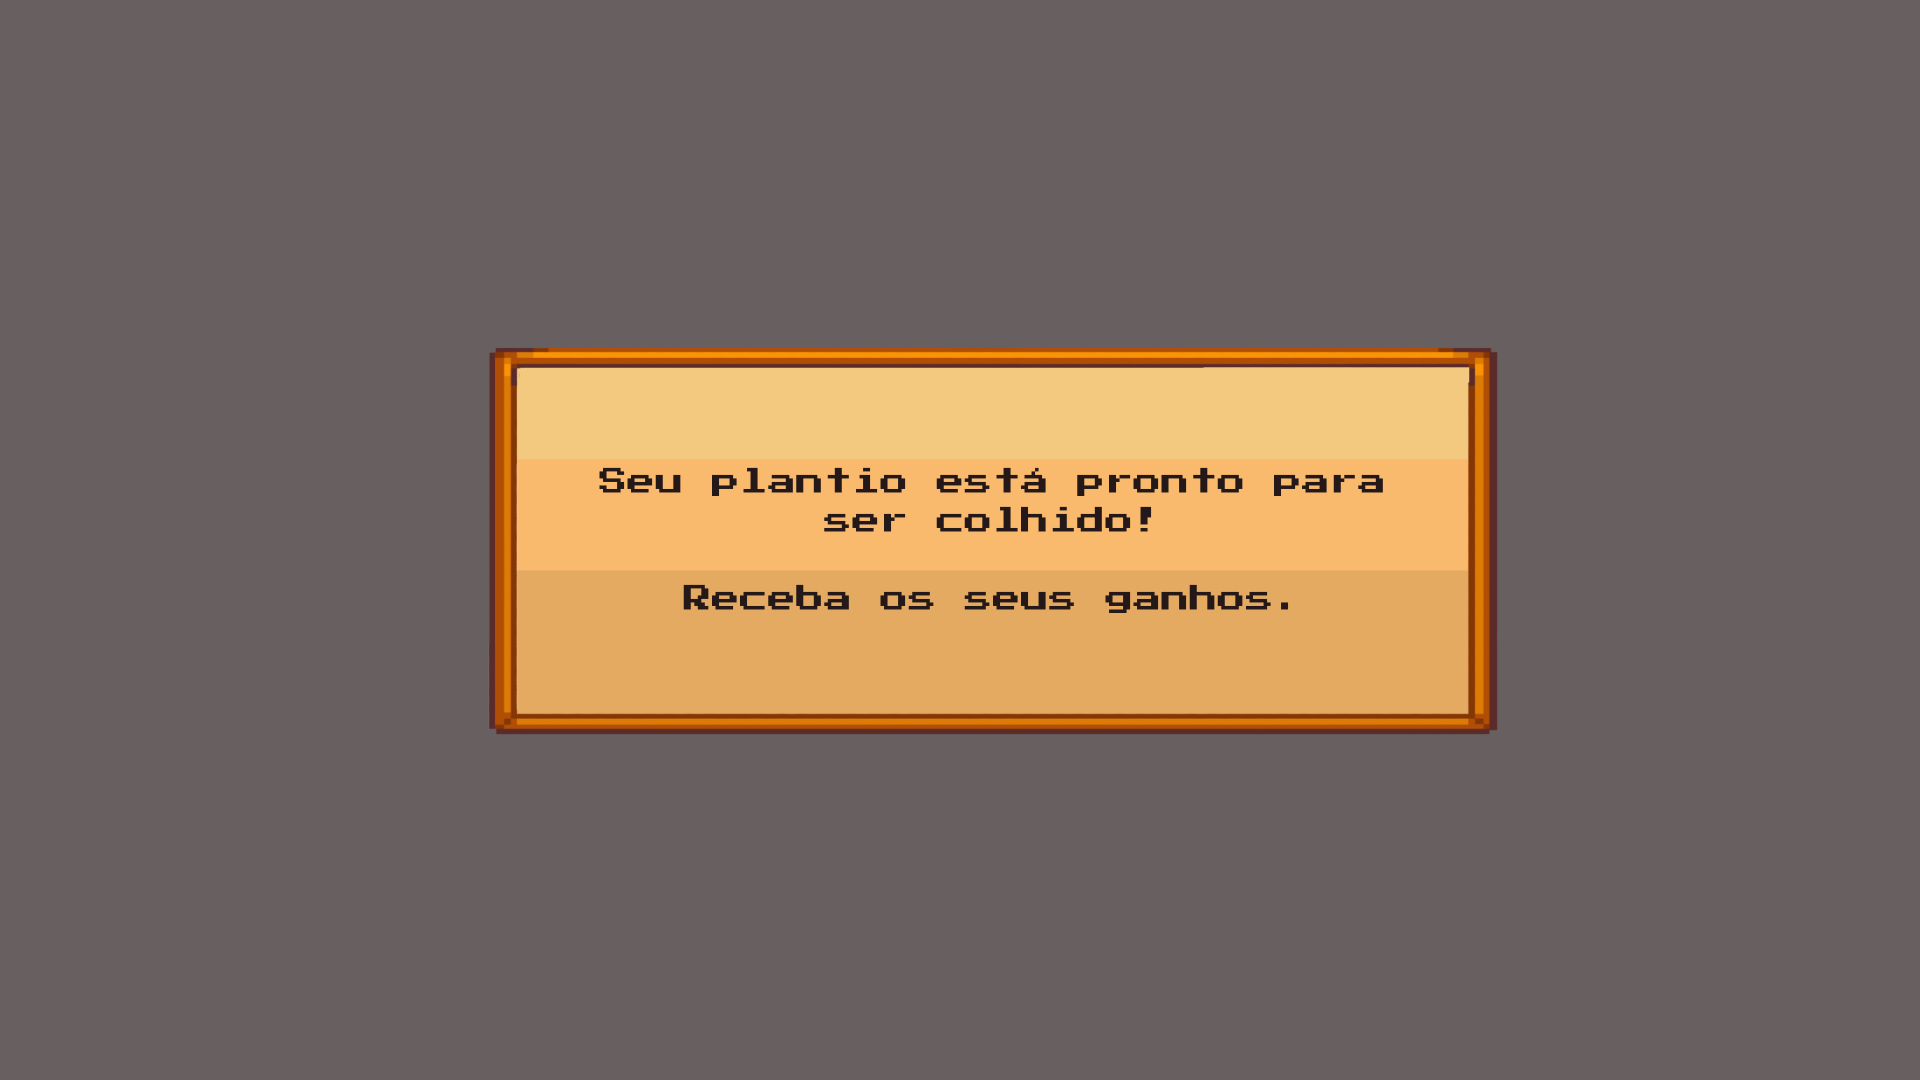
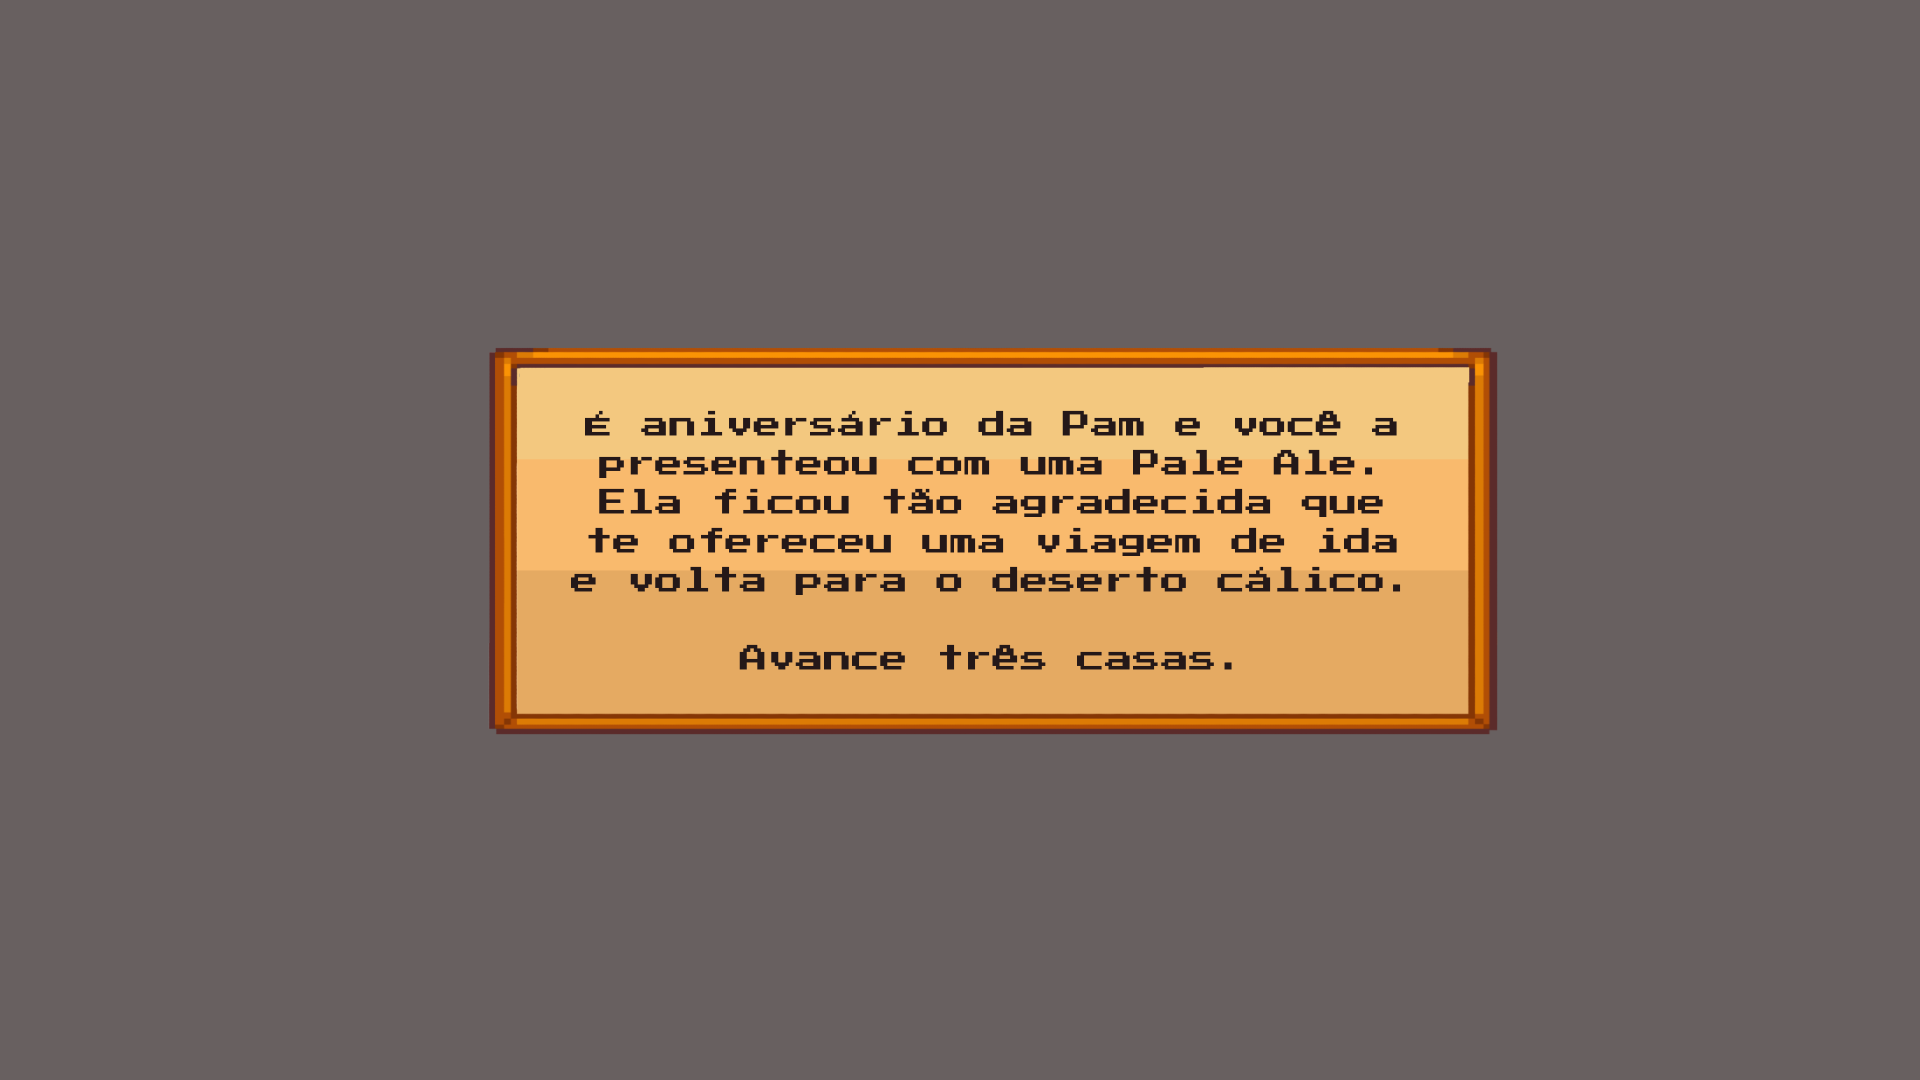
[fix] jail, cards and property bought

Changed region(s): [[0.2812, 0.3667, 0.75, 0.6417]]

diff --git a/Programming/Programming Paradigms/[T1] Banco Imobiliário/src/Controllers/Game.java b/Programming/Programming Paradigms/[T1] Banco Imobiliário/src/Controllers/Game.java
@@ -80,19 +80,17 @@ public class Game implements MenuCallback {
         
         // Inicializa o baralho de cartas de sorte ou revés
         chanceCardsDeck = new ChanceCardsDeck();
-        chanceCardsDeck.addChanceCard(new ChanceCard("./Content/ChanceCards/Card1.png", 2, 0, 0, false));
-        chanceCardsDeck.addChanceCard(new ChanceCard("./Content/ChanceCards/Card2.png", 0, 0, 0, true));
-        chanceCardsDeck.addChanceCard(new ChanceCard("./Content/ChanceCards/Card3.png", 0, 0, 0, true));
-        chanceCardsDeck.addChanceCard(new ChanceCard("./Content/ChanceCards/Card4.png", 1, 0, 0, false));
-        chanceCardsDeck.addChanceCard(new ChanceCard("./Content/ChanceCards/Card5.png", 0, 1000, 0, false));
-        chanceCardsDeck.addChanceCard(new ChanceCard("./Content/ChanceCards/Card6.png", 0, 0, 1, false));
-        chanceCardsDeck.addChanceCard(new ChanceCard("./Content/ChanceCards/Card7.png", 3, 0, 0, false));
-        chanceCardsDeck.addChanceCard(new ChanceCard("./Content/ChanceCards/Card8.png", -2, 0, 0, false));
-        chanceCardsDeck.addChanceCard(new ChanceCard("./Content/ChanceCards/Card9.png", -2, 0, 0, false));
-        chanceCardsDeck.addChanceCard(new ChanceCard("./Content/ChanceCards/Card10.png", 0, -500, 1, false));
-        chanceCardsDeck.addChanceCard(new ChanceCard("./Content/ChanceCards/Card11.png", 0, 0, 1, false));
-        chanceCardsDeck.addChanceCard(new ChanceCard("./Content/ChanceCards/Card12.png", 0, 0, 2, false));
-        chanceCardsDeck.addChanceCard(new ChanceCard("./Content/ChanceCards/Card13.png", -3, 0, 0, false));
+        chanceCardsDeck.addChanceCard(new ChanceCard("./Content/ChanceCards/Card1.png", 2, 0, 0));
+        chanceCardsDeck.addChanceCard(new ChanceCard("./Content/ChanceCards/Card2.png", 1, 0, 0));
+        chanceCardsDeck.addChanceCard(new ChanceCard("./Content/ChanceCards/Card3.png", 0, 1000, 0));
+        chanceCardsDeck.addChanceCard(new ChanceCard("./Content/ChanceCards/Card4.png", 0, 0, 1));
+        chanceCardsDeck.addChanceCard(new ChanceCard("./Content/ChanceCards/Card5.png", 3, 0, 0));
+        chanceCardsDeck.addChanceCard(new ChanceCard("./Content/ChanceCards/Card6.png", -2, 0, 0));
+        chanceCardsDeck.addChanceCard(new ChanceCard("./Content/ChanceCards/Card7.png", -2, 0, 0));
+        chanceCardsDeck.addChanceCard(new ChanceCard("./Content/ChanceCards/Card8.png", 0, -500, 1));
+        chanceCardsDeck.addChanceCard(new ChanceCard("./Content/ChanceCards/Card9.png", 0, 0, 1));
+        chanceCardsDeck.addChanceCard(new ChanceCard("./Content/ChanceCards/Card10.png", 0, 0, 2));
+        chanceCardsDeck.addChanceCard(new ChanceCard("./Content/ChanceCards/Card11.png", -3, 0, 0));
 
         // Adiciona o baralho de cartas de sorte ou revés ao tabuleiro
         gameBoard.setField(1, chanceCardsDeck);
@@ -107,7 +105,7 @@ public class Game implements MenuCallback {
         gameBoard.setField(2, museuGunther);
         armazemPierre = new Property(2000, 200, "./Content/Properties/Pierre.png");
         gameBoard.setField(3, armazemPierre);
-        mercadoJoja = new Property(10000, 1000, "./Content/Properties/Joja.png");
+        mercadoJoja = new Property(10000, 1000, "./Content/Properties/Morris.png");
         gameBoard.setField(4, mercadoJoja);
         atelieEmily = new Property(1000, 100, "./Content/Properties/Emily.png");
         gameBoard.setField(7, atelieEmily);
@@ -198,27 +196,37 @@ public class Game implements MenuCallback {
 
                         // Configura o listener antes de criar os botões
                         specialFieldsView.setButtonClickListener(button -> {
-                            if (button.equals("YES") && gameBoard.getPlayers().get(i[0]).getMoney() > 2000) {
-                                gameBoard.getPlayers().get(i[0]).setInJail(false);
-                                gameBoard.getPlayers().get(i[0]).setMoney(gameBoard.getPlayers().get(i[0]).getMoney() - 2000);
-                                gameBoard.getPlayers().get(i[0]).setInDetention(0);
-                                specialFieldsView.clearPanel();
-                            } // Se o jogador tiver cumprido as 5 rodadas, ele pode sair da prisão
-                            else if (gameBoard.getPlayers().get(i[0]).getInDetention() == 0) {
-                                gameBoard.getPlayers().get(i[0]).setInJail(false);
-                                gameBoard.getPlayers().get(i[0]).setInDetention(0);
-                                specialFieldsView.clearPanel();
-                            } // Se o jogador não tiver dinheiro suficiente para pagar a fiança, ele deve ficar 5 rodadas na prisão
-                            else {
+                            if (button.equals("YES")) {
+                                if (gameBoard.getPlayers().get(i[0]).getMoney() > 2000) {
+                                    gameBoard.getPlayers().get(i[0]).setInJail(false);
+                                    gameBoard.getPlayers().get(i[0]).setMoney(gameBoard.getPlayers().get(i[0]).getMoney() - 2000);
+                                    gameBoard.getPlayers().get(i[0]).setInDetention(0);
+                                    specialFieldsView.clearPanel();
+                             
+                                } // Se o jogador tiver cumprido as 5 rodadas, ele pode sair da prisão
+                                else if (gameBoard.getPlayers().get(i[0]).getInDetention() == 0) {
+                                    gameBoard.getPlayers().get(i[0]).setInJail(false);
+                                    specialFieldsView.clearPanel();
+                                } // Se o jogador não tiver dinheiro suficiente para pagar a fiança, ele deve ficar 5 rodadas na prisão
+                                else {
+                                    gameBoard.getPlayers().get(i[0]).setInDetention(gameBoard.getPlayers().get(i[0]).getInDetention() - 1);
+                                }
+                            } else if (button.equals("NO")) {
                                 gameBoard.getPlayers().get(i[0]).setInDetention(gameBoard.getPlayers().get(i[0]).getInDetention() - 1);
+                                specialFieldsView.clearPanel();
+                            } else {
+                                gameBoard.getPlayers().get(i[0]).setInDetention(gameBoard.getPlayers().get(i[0]).getInDetention() - 1);
+                                specialFieldsView.clearPanel();
                             }
                         });
+                    
                         specialFieldsView.createPrisionButtons();
                         specialFieldsView.exhibit("./Content/SpecialFields/Prision.png");
                         try {Thread.sleep(10000);} catch (InterruptedException e) {e.printStackTrace();}
                         specialFieldsView.clearPanel();
-                    } // Jogador não está em detenção ou prisão, faz uma jogada normal 
-                    else {
+                    
+                    } else { // Jogador não está em detenção ou prisão, faz uma jogada normal 
+                    
                         // Rola o dado e exibe o resultado
                         diceView.addToBoard(gameBoardView.getPanel());
                         int rollDice = dice.rollDice();
@@ -250,14 +258,54 @@ public class Game implements MenuCallback {
                             } // Ficar sem jogar por um número específico de rodadas
                             if (choosen.getRoundsNotPlay() > 0) {
                                 gameBoard.getPlayers().get(i[0]).setInDetention(choosen.getRoundsNotPlay());
-                            } // Jogar novamente
-                            if (choosen.getPlayAgain()) {
-                                i[0]--;
                             }
                         } 
                         // Se o jogador cair em um campo de propriedade, exibe a propriedade e dá a opção de comprar ou pagar aluguel
                         else if (gameBoard.getField(gameBoard.getPlayers().get(i[0]).getPosition()).getType().equals("Property")) {
-                            System.out.println("Você caiu em uma propriedade!");
+                            specialFieldsView.addToBoard(gameBoardView.getPanel());
+                            try {Thread.sleep(2500);} catch (InterruptedException e) {e.printStackTrace();}
+
+                            // Configura o listener antes de criar os botões
+                            specialFieldsView.setButtonClickListener(button -> { 
+                                if (button.equals("BUY")) { // Se o jogador escolher comprar a propriedade
+                                    
+                                    // Se a propriedade não tiver dono
+                                    if (((Property) gameBoard.getField(gameBoard.getPlayers().get(i[0]).getPosition())).getOwner() == null) {
+                                        
+                                        // Se o jogador tiver o dinheiro da compra, compra a propriedade
+                                        if (gameBoard.getPlayers().get(i[0]).getMoney() > ((Property) gameBoard.getField(gameBoard.getPlayers().get(i[0]).getPosition())).getBuyValue()) { 
+                                            ((Property) gameBoard.getField(gameBoard.getPlayers().get(i[0]).getPosition())).setOwner(gameBoard.getPlayers().get(i[0]));
+                                            gameBoard.getPlayers().get(i[0]).setMoney(gameBoard.getPlayers().get(i[0]).getMoney() - ((Property) gameBoard.getField(gameBoard.getPlayers().get(i[0]).getPosition())).getBuyValue());
+                                            specialFieldsView.clearPanel();
+                                        // Se ele não tiver o dinheiro da compra não faz nada
+                                        } else { specialFieldsView.clearPanel();}
+
+                                    // Se a propriedade tiver dono e o jogador não o for, desconta o aluguel
+                                    } else if (((Property) gameBoard.getField(gameBoard.getPlayers().get(i[0]).getPosition())).getOwner() != gameBoard.getPlayers().get(i[0])) { 
+                                        gameBoard.getPlayers().get(i[0]).setMoney(gameBoard.getPlayers().get(i[0]).getMoney() - ((Property) gameBoard.getField(gameBoard.getPlayers().get(i[0]).getPosition())).getRentValue());
+                                        ((Property) gameBoard.getField(gameBoard.getPlayers().get(i[0]).getPosition())).getOwner().setMoney(((Property) gameBoard.getField(gameBoard.getPlayers().get(i[0]).getPosition())).getOwner().getMoney() + ((Property) gameBoard.getField(gameBoard.getPlayers().get(i[0]).getPosition())).getRentValue());
+                                        specialFieldsView.clearPanel();
+                                    
+                                    // Se a propriedade tiver dono e o jogador for o dono, não faz nada
+                                    } else {specialFieldsView.clearPanel();}
+                                
+                                } else if (button.equals("RENT")) { // Se o jogador escolher pagar o aluguel
+                                    
+                                    // Se a propriedade tiver dono e o jogador não o for, desconta o aluguel
+                                    if (((Property) gameBoard.getField(gameBoard.getPlayers().get(i[0]).getPosition())).getOwner() != null) {
+    
+                                        if (((Property) gameBoard.getField(gameBoard.getPlayers().get(i[0]).getPosition())).getOwner() != gameBoard.getPlayers().get(i[0])) {
+                                            gameBoard.getPlayers().get(i[0]).setMoney(gameBoard.getPlayers().get(i[0]).getMoney() - ((Property) gameBoard.getField(gameBoard.getPlayers().get(i[0]).getPosition())).getRentValue());
+                                            ((Property) gameBoard.getField(gameBoard.getPlayers().get(i[0]).getPosition())).getOwner().setMoney(((Property) gameBoard.getField(gameBoard.getPlayers().get(i[0]).getPosition())).getOwner().getMoney() + ((Property) gameBoard.getField(gameBoard.getPlayers().get(i[0]).getPosition())).getRentValue());
+                                            specialFieldsView.clearPanel();
+                                        }
+                                    } else {specialFieldsView.clearPanel();}
+                                }
+                            });                                
+                            specialFieldsView.createPropertyButtons();
+                            specialFieldsView.exhibit(((Property) gameBoard.getField(gameBoard.getPlayers().get(i[0]).getPosition())).getAppearance());
+                            try {Thread.sleep(10000);} catch (InterruptedException e) {e.printStackTrace();}
+                            specialFieldsView.clearPanel();
                         } 
                         // Se o jogador cair em um campo de pagamento ou recebimento, verifica o tipo e aplica o efeito
                         else if (gameBoard.getField(gameBoard.getPlayers().get(i[0]).getPosition()).getType().equals("Earn")) {
@@ -289,6 +337,10 @@ public class Game implements MenuCallback {
                                     gameBoard.getPlayers().get(i[0]).setInJail(false);
                                     gameBoard.getPlayers().get(i[0]).setMoney(gameBoard.getPlayers().get(i[0]).getMoney() - 2000);
                                     gameBoard.getPlayers().get(i[0]).setInDetention(0);
+                                    specialFieldsView.clearPanel();
+                                } else if (button.equals("NO")) {
+                                    gameBoard.getPlayers().get(i[0]).setInJail(true);
+                                    gameBoard.getPlayers().get(i[0]).setInDetention(5);
                                     specialFieldsView.clearPanel();
                                 } else {
                                     gameBoard.getPlayers().get(i[0]).setInJail(true);

diff --git a/Programming/Programming Paradigms/[T1] Banco Imobiliário/src/Views/SpecialFieldsView.java b/Programming/Programming Paradigms/[T1] Banco Imobiliário/src/Views/SpecialFieldsView.java
@@ -49,10 +49,11 @@ public class SpecialFieldsView {
     public void setButtonClickListener(ButtonClickListener listener) {
         this.buttonClickListener = listener;
     }
+
     public void createPrisionButtons() {
         panel.setLayout(null);
 
-        JButton buttonYes = new JButton("Yes");
+        JButton buttonYes = new JButton();
         buttonYes.setSize(150, 50);
         buttonYes.setContentAreaFilled(false);
         buttonYes.setBorderPainted(false);
@@ -65,7 +66,7 @@ public class SpecialFieldsView {
             }
         });
 
-        JButton buttonNo = new JButton("No");
+        JButton buttonNo = new JButton();
         buttonNo.setSize(150, 50);
         buttonNo.setContentAreaFilled(false);
         buttonNo.setBorderPainted(false);
@@ -91,6 +92,51 @@ public class SpecialFieldsView {
         panel.add(buttonNo);
 
         panel.repaint();
+    }
+
+    public void createPropertyButtons() {
+        panel.setLayout(null);
+
+        JButton buttonBuy = new JButton();
+        buttonBuy.setSize(205, 70);
+        buttonBuy.setContentAreaFilled(false);
+        buttonBuy.setBorderPainted(false);
+        buttonBuy.setFocusPainted(false);
+        buttonBuy.setOpaque(false);
+        buttonBuy.setCursor(new Cursor(Cursor.HAND_CURSOR));
+        buttonBuy.addActionListener(e -> {
+            if (buttonClickListener != null) {
+                buttonClickListener.onButtonClicked("BUY"); // Chama o listener para o botão "Buy"
+            }
+        });
+
+        JButton buttonAuction = new JButton();
+        buttonAuction.setSize(205, 70);
+        buttonAuction.setContentAreaFilled(false);
+        buttonAuction.setBorderPainted(false);
+        buttonAuction.setFocusPainted(false);
+        buttonAuction.setOpaque(false);
+        buttonAuction.setCursor(new Cursor(Cursor.HAND_CURSOR));
+        buttonAuction.addActionListener(e -> {
+            if (buttonClickListener != null) {
+                buttonClickListener.onButtonClicked("RENT"); // Chama o listener para o botão "Auction"
+            }
+        });
+
+        int panelWidth = panel.getWidth();
+        int panelHeight = panel.getHeight();
+        int buttonWidth = buttonBuy.getWidth();
+        int buttonHeight = buttonBuy.getHeight();
+        int spacing = -12;
+
+        buttonBuy.setLocation((panelWidth - buttonWidth) / 2 + 325, (panelHeight - 2 * buttonHeight - spacing) / 2 + 30);
+        buttonAuction.setLocation((panelWidth - buttonWidth) / 2 + 325, (panelHeight - buttonHeight) / 2 + 40 + buttonHeight + spacing);
+
+        panel.add(buttonBuy);
+        panel.add(buttonAuction);
+
+        panel.repaint();
+
     }
 
     public void clearPanel() {

diff --git a/Programming/Programming Paradigms/[T1] Banco Imobiliário/src/Models/ChanceCard.java b/Programming/Programming Paradigms/[T1] Banco Imobiliário/src/Models/ChanceCard.java
@@ -5,15 +5,13 @@ public class ChanceCard {
     private int positionsToAdvance; // < 0 se for para voltar, > 0 se for para avançar
     private int money;
     private int roundsNotPlay;
-    private boolean playAgain;
 
     // Constructor
-    public ChanceCard(String appearance, int positionsToAdvance, int money, int roundsNotPlay, boolean playAgain) {
+    public ChanceCard(String appearance, int positionsToAdvance, int money, int roundsNotPlay) {
         this.appearance = appearance;
         this.positionsToAdvance = positionsToAdvance; // posições que o personagem deve avançar
         this.money = money; // dinheiro que o personagem deve receber ou pagar
         this.roundsNotPlay = roundsNotPlay; // rodadas que o jogador não deve jogar
-        this.playAgain = false; // se o jogador deve jogar novamente
     }
 
     // Getters and Setters
@@ -25,6 +23,4 @@ public class ChanceCard {
     public void setMoney(int money) {this.money = money;}
     public int getRoundsNotPlay() {return roundsNotPlay;}
     public void setRoundsNotPlay(int roundsNotPlay) {this.roundsNotPlay = roundsNotPlay;}
-    public boolean getPlayAgain() {return playAgain;}
-    public void setPlayAgain(boolean playAgain) {this.playAgain = playAgain;}
 }
